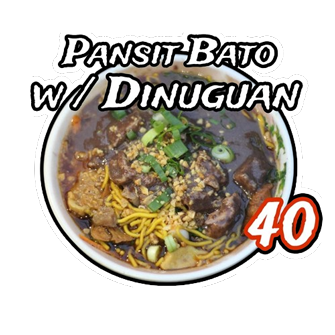
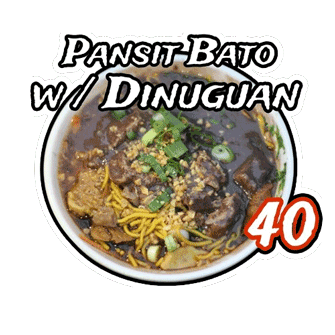
image-compress

diff --git a/about.html b/about.html
@@ -46,11 +46,11 @@
             <div class="main-container-about">
                 <h1>ABOUT</h1>
                 <h1 id="manoy">Manoy Celso Pancit Bato</h1>
-                <img id="place-prev" src="assets/img/place-prev.png" alt="">
+                <img id="place-prev" src="assets/img/place-prev.jpg" alt="">
                 <p id="place-desc">Manoy Celso Authentic Bato is a specialty store renowned for its Pancit Bato, a traditional noodle dish from Bato, Camarines Sur in the Bicol region of the Philippines. This store prides itself on preserving the authentic preparation methods, including sun-drying the noodles, which contributes to their distinct texture and flavor. The menu features a variety of Pancit Bato dishes, each reflecting the rich culinary heritage of Bicol. Manoy Celso's commitment to authenticity makes it a beloved destination for those seeking genuine Filipino cuisine.</p>
                 <h1 id="arcel">Arcel Celso “Manoy”</h1>
                 <img id="manoy-prev-1" src="assets/img/manoy-prev-1.png" alt="">
-                <img id="manoy-prev-2" src="assets/img/manoy-prev-2.png" alt="">
+                <img id="manoy-prev-2" src="assets/img/manoy-prev-2.jpg" alt="">
                 <p id="manoy-desc">Arcel Celso or "manoy" Celso is a notable figure in the Filipino culinary scene, particularly known for his dedication to preserving and promoting the traditional dish, Pancit Bato. Originating from Bato, Camarines Sur in the Bicol region, Pancit Bato is a unique type of noodle that is sun-dried, giving it a distinct texture and flavor that sets it apart from other noodle dishes.</p>
                 <h2 id="ln">____________________________________________________________________________________</h1>
                 <video id="video" controls poster="assets/img/thumbnail.jpg">

diff --git a/assets/js/main.js b/assets/js/main.js
@@ -222,12 +222,12 @@ document.addEventListener("DOMContentLoaded", () => {
 
        // Image sources for desktop and mobile
        const desktopImageSources = [
-              'assets/img/front_Img1.png',
-              'assets/img/front_Img1-2.png',
+              'assets/img/front_Img1.jpg',
+              'assets/img/front_Img1-2.jpg',
               'assets/img/front_Img1-3.png',
-              'assets/img/front_Img1-4.png',
-              'assets/img/front_Img1-5.png',
-              'assets/img/front_Img1-6.png'
+              'assets/img/front_Img1-4.jpg',
+              'assets/img/front_Img1-5.jpg',
+              'assets/img/front_Img1-6.jpg'
        ];
 
        const mobileImageSources = [

diff --git a/assets/css/styles.css b/assets/css/styles.css
@@ -1444,4 +1444,4 @@ form {
         background-color: transparent;
       }
       
-    }
+    } 
